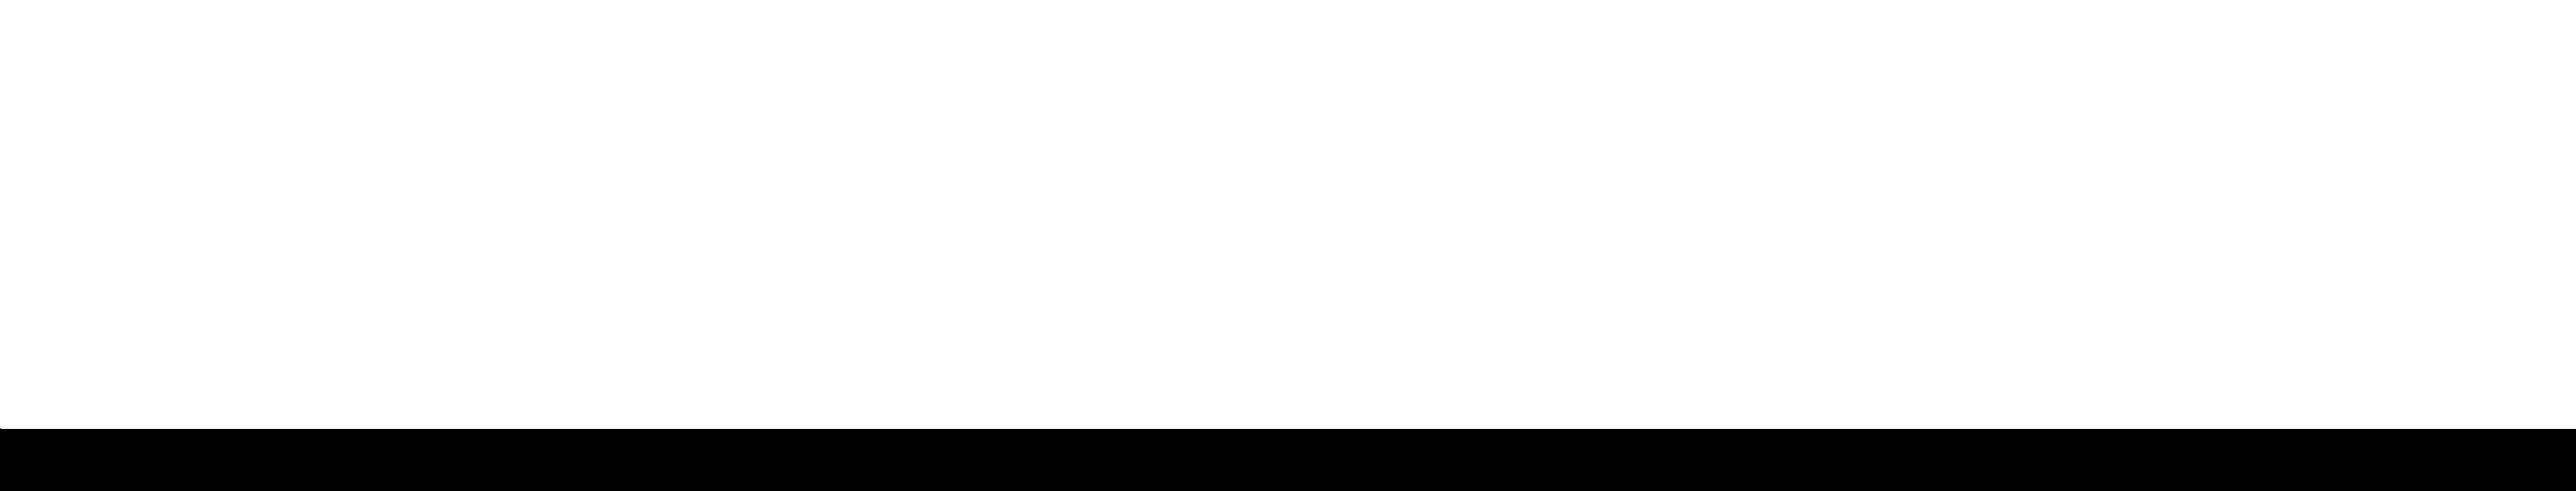
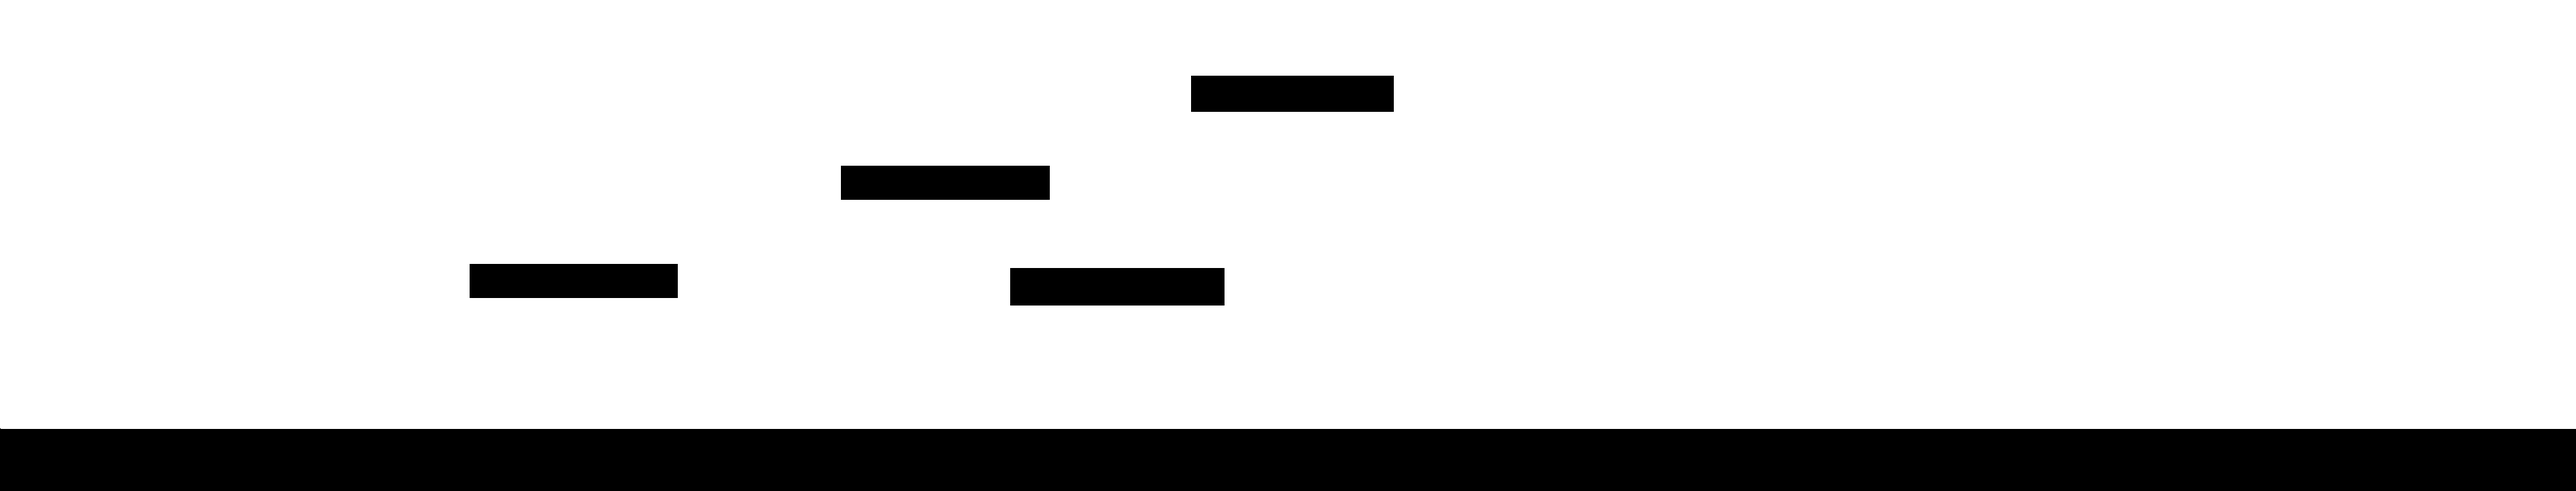
Merge origin/ContainerBranch into ContainerBranch
Conflicts:
	Base/src/main/java/group04/base/BaseSystem.java
	Core/src/main/java/group04/core/Renderer.java

diff --git a/Core/src/main/java/group04/core/Renderer.java b/Core/src/main/java/group04/core/Renderer.java
@@ -20,6 +20,7 @@ import group04.common.GameData;
 import group04.common.World;
 import group04.core.managers.Assets;
 import group04.enemycommon.EnemyEntity;
+import group04.platformcommon.PlatformEntity;
 import group04.playercommon.PlayerEntity;
 import group04.projectilecommon.ProjectileEntity;
 import group04.spawnercommon.WaveSpawnerEntity;
@@ -28,6 +29,7 @@ import group04.weaponcommon.WeaponEntity;
 import java.util.ArrayList;
 import org.openide.util.Exceptions;
 import java.util.Map.Entry;
+import javafx.application.Platform;
 
 /**
  *
@@ -59,7 +61,7 @@ public class Renderer {
         while (!assetManager.getAssetManager().update()) {
 //            System.out.println(assetManager.getAssetManager().getProgress() * 100);
         }
-        
+
 //        loadPNGAnimation("player_run_animation2.png", 75, 80, 5);
         //Animation speed += 1/animationspeed
         loadPNGAnimation("player_idle_animation.png", 105, 132, 5);
@@ -77,12 +79,12 @@ public class Renderer {
             sprite = (Sprite) e.getValue();
             gameData.getSpriteInfo().put(fileName.substring(0, fileName.length() - 4), new int[]{(int) sprite.getWidth(), (int) sprite.getHeight()});
         }
-        
+
         Animation animation;
         for (Entry e : assetManager.getAllAnimations().entrySet()) {
             fileName = (String) e.getKey();
             animation = (Animation) e.getValue();
-            gameData.getSpriteInfo().put(fileName.substring(0, fileName.length() - 4), new int[]{(int)animation.getWidth(), (int)animation.getHeight()});
+            gameData.getSpriteInfo().put(fileName.substring(0, fileName.length() - 4), new int[]{(int) animation.getWidth(), (int) animation.getHeight()});
         }
 
 //        assetManager.getAssetManager().get
@@ -90,7 +92,7 @@ public class Renderer {
     }
 
     public void loadPNGAnimation(String animationName, int spriteSizeX, int spriteSizeY, float animationSpeed) {
-        assetManager.makeAnimation(animationName, assetManager.getAssetManager().get(assetManager.getFilePaths().get(animationName), 
+        assetManager.makeAnimation(animationName, assetManager.getAssetManager().get(assetManager.getFilePaths().get(animationName),
                 Texture.class), spriteSizeX, spriteSizeY, animationSpeed);
     }
 
@@ -193,12 +195,18 @@ public class Renderer {
                 drawSprite(gameData, world, entity, images.get(imageContainer.getSprite()), imageContainer);
             }
         }*/
-/*        for (Entity entity : world.getEntities(PlayerEntity.class)) {
+ /*        for (Entity entity : world.getEntities(PlayerEntity.class)) {
             if (entity.getDrawable() != null) {
                 drawSprite(gameData, world, entity, assetManager.getSprites(entity.getDrawable() + ".png"));
             }
         }*/
-
+ 
+        for (Entity entity : world.getEntities(PlatformEntity.class)) {
+            if (entity.getDrawable() != null) {
+                drawSprite(gameData, world, entity, assetManager.getSprites(entity.getDrawable() + ".png"));
+            }
+        }
+        
         for (Entity entity : world.getEntities(EnemyEntity.class)) {
             if (entity.getDrawable() != null) {
                 drawSprite(gameData, world, entity, assetManager.getSprites(entity.getDrawable() + ".png"));

diff --git a/Base/src/main/java/group04/base/BaseSystem.java b/Base/src/main/java/group04/base/BaseSystem.java
@@ -12,6 +12,7 @@ import group04.common.events.Event;
 import group04.common.events.EventType;
 import group04.common.services.IServiceInitializer;
 import group04.common.services.IServiceProcessor;
+import group04.platformcommon.PlatformEntity;
 import group04.playercommon.PlayerEntity;
 import group04.upgradecommon.UpgradeEntity;
 import group04.weaponcommon.WeaponEntity;
@@ -43,15 +44,18 @@ public class BaseSystem implements IServiceProcessor, IServiceInitializer {
                 }
             }
 
-            if (gameData.getKeys().isPressed(GameKeys.U)) {
-                //Open upgrade screen
-                for (Entity menu : world.getEntities(UpgradeEntity.class)) {
-                    UpgradeEntity e = (UpgradeEntity) menu;
-                    e.setOpen(!e.isOpen());
-                }
+            UpgradeEntity menu = null;
+
+            for (Entity e : world.getEntities(UpgradeEntity.class)) {
+                menu = (UpgradeEntity) e;
             }
 
-            if (gameData.getKeys().isPressed(GameKeys.I)) {
+            if (gameData.getKeys().isPressed(GameKeys.U)) {
+                //Open upgrade screen
+                menu.setOpen(!menu.isOpen());
+            }
+
+            if (gameData.getKeys().isPressed(GameKeys.I) && menu.isOpen()) {
                 //HP Upgrade
                 if (player.getMoney() > 100) {
                     base.setHpLevel(base.getHpLevel() + 1);
@@ -60,7 +64,7 @@ public class BaseSystem implements IServiceProcessor, IServiceInitializer {
                 }
             }
 
-            if (gameData.getKeys().isPressed(GameKeys.J)) {
+            if (gameData.getKeys().isPressed(GameKeys.J) && menu.isOpen()) {
                 if (player.getMoney() > 200) {
                     WeaponEntity turret = (WeaponEntity) base.getTurretOwned();
                     //Turret Upgrade
@@ -85,12 +89,14 @@ public class BaseSystem implements IServiceProcessor, IServiceInitializer {
                     player.setMoney(player.getMoney() - 200);
                 }
             }
-            if (gameData.getKeys().isPressed(GameKeys.K)) {
+            if (gameData.getKeys().isPressed(GameKeys.K) && menu.isOpen()) {
                 //Platform Upgrade
                 if (player.getMoney() > 50 && base.getPlatformLevel() < 5) {
                     base.setPlatformLevel(base.getPlatformLevel() + 1);
                     player.setMoney(player.getMoney() - 50);
                     //Create platforms
+                    PlatformEntity platform = new PlatformEntity();
+                    platform.setDrawable("base_platform");
                 }
             }
 

diff --git a/Map/src/main/java/group04/map/Initializer.java b/Map/src/main/java/group04/map/Initializer.java
@@ -6,6 +6,7 @@ import group04.common.EntityType;
 import group04.common.GameData;
 import group04.common.World;
 import group04.common.services.IServiceInitializer;
+import group04.mapcommon.IMapService;
 import group04.mapcommon.MapEntity;
 import java.io.File;
 import java.io.FileInputStream;
@@ -14,10 +15,14 @@ import java.io.IOException;
 import java.io.ObjectInputStream;
 import java.util.logging.Level;
 import java.util.logging.Logger;
+import org.openide.util.lookup.ServiceProviders;
 
-@ServiceProvider(service = IServiceInitializer.class)
+@ServiceProviders(value = {
+    @ServiceProvider(service = IServiceInitializer.class),
+    @ServiceProvider(service = IMapService.class)
+})
 
-public class Initializer implements IServiceInitializer {
+public class Initializer implements IServiceInitializer, IMapService {
 
     
 
@@ -27,7 +32,7 @@ public class Initializer implements IServiceInitializer {
     @Override
     public void start(GameData gameData, World world) {
 //        map = generateMap(gameData);
-        Entity map = loadMap(gameData);
+        Entity map = loadMap(gameData, "../../../Common/src/main/resources/map.object");
         world.addEntity(map);
     }
 
@@ -36,13 +41,13 @@ public class Initializer implements IServiceInitializer {
 
     }
 
-    private Entity loadMap(GameData gameData) {
+    private Entity loadMap(GameData gameData, String map) {
 
         
         FileInputStream fin = null;
         ObjectInputStream ois = null;
         try {
-            fin = new FileInputStream(new File("../../../Common/src/main/resources/map.object").getAbsolutePath());
+            fin = new FileInputStream(new File(map).getAbsolutePath());
             ois = new ObjectInputStream(fin);
         } catch (FileNotFoundException ex) {
             Logger.getLogger(Initializer.class.getName()).log(Level.SEVERE, null, ex);
@@ -75,5 +80,10 @@ public class Initializer implements IServiceInitializer {
         }
 
         return null;
+    }
+
+    @Override
+    public void process(GameData gameData, String map) {
+        loadMap(gameData, map);
     }
 }

diff --git a/Core/src/main/java/group04/core/Game.java b/Core/src/main/java/group04/core/Game.java
@@ -27,6 +27,7 @@ import group04.common.services.IServiceProcessor;
 import group04.currencycommon.ICurrencyService;
 import group04.enemycommon.EnemyEntity;
 import group04.enemycommon.IEnemyService;
+import group04.mapcommon.IMapService;
 import group04.movementcommon.IMovementService;
 import group04.playercommon.PlayerEntity;
 import group04.spawnercommon.ISpawnerService;
@@ -125,6 +126,7 @@ public class Game implements ApplicationListener {
             ips.pickUpWeapon(gameData, world);
         }
 
+        platformProcess();
         playerProcess();
         enemyProcess();
     }
@@ -227,6 +229,33 @@ public class Game implements ApplicationListener {
                 }
             }
 
+        }
+    }
+
+    private void platformProcess() {
+        for (Event e : gameData.getAllEvents()) {
+            if (e.getType() == EventType.PLATFORM_SPAWN) {
+                for (IMapService i : Lookup.getDefault().lookupAll(IMapService.class)) {
+                    for (Entity ent : world.getEntities(BaseEntity.class)) {
+                        BaseEntity base = (BaseEntity) ent;
+                        if (base.getPlatformLevel() == 1) {
+                            i.process(gameData, "../../../Common/src/main/resources/mapplat1.object");
+                        }
+                        if (base.getPlatformLevel() == 2) {
+                            i.process(gameData, "../../../Common/src/main/resources/mapplat2.object");
+
+                        }
+                        if (base.getPlatformLevel() == 3) {
+                            i.process(gameData, "../../../Common/src/main/resources/mapplat3.object");
+
+                        }
+                        if (base.getPlatformLevel() == 4) {
+                            i.process(gameData, "../../../Common/src/main/resources/mapplat4.object");
+
+                        }
+                    }
+                }
+            }
         }
     }
 }

diff --git a/Platform/src/main/java/group04/platform/PlatformSystem.java b/Platform/src/main/java/group04/platform/PlatformSystem.java
@@ -1,0 +1,32 @@
+/*
+ * To change this license header, choose License Headers in Project Properties.
+ * To change this template file, choose Tools | Templates
+ * and open the template in the editor.
+ */
+package group04.platform;
+
+import group04.common.GameData;
+import group04.common.World;
+import group04.common.services.IServiceInitializer;
+import org.openide.util.lookup.ServiceProvider;
+import org.openide.util.lookup.ServiceProviders;
+
+/**
+ *
+ * @author Michael-PC
+ */
+@ServiceProviders(value = {
+    @ServiceProvider(service = IServiceInitializer.class)
+})
+
+public class PlatformSystem implements IServiceInitializer {
+
+    @Override
+    public void start(GameData gameData, World world) {
+    }
+
+    @Override
+    public void stop(GameData gameData, World world) {
+    }
+
+}

diff --git a/Common/src/main/java/group04/mapgenerator/MapGenerator.java b/Common/src/main/java/group04/mapgenerator/MapGenerator.java
@@ -45,7 +45,7 @@ public class MapGenerator {
                 }
             }
 
-            FileOutputStream fout = new FileOutputStream("src\\main\\resources\\map.object");
+            FileOutputStream fout = new FileOutputStream("src\\main\\resources\\mapplat4.object");
 //            FileOutputStream fout = new FileOutputStream(this.getClass().getregetResource() "main\\resources\\map.object");
             ObjectOutputStream oos = new ObjectOutputStream(fout);
             oos.writeObject(newMapInt);

diff --git a/MapCommon/src/main/java/group04/mapcommon/IMapService.java b/MapCommon/src/main/java/group04/mapcommon/IMapService.java
@@ -1,0 +1,16 @@
+/*
+ * To change this license header, choose License Headers in Project Properties.
+ * To change this template file, choose Tools | Templates
+ * and open the template in the editor.
+ */
+package group04.mapcommon;
+
+import group04.common.GameData;
+
+/**
+ *
+ * @author Michael-PC
+ */
+public interface IMapService {
+    public void process(GameData gameData, String map);
+}

diff --git a/PlatformCommon/src/main/java/group04/platformcommon/PlatformEntity.java b/PlatformCommon/src/main/java/group04/platformcommon/PlatformEntity.java
@@ -1,0 +1,16 @@
+/*
+ * To change this license header, choose License Headers in Project Properties.
+ * To change this template file, choose Tools | Templates
+ * and open the template in the editor.
+ */
+package group04.platformcommon;
+
+import group04.common.Entity;
+
+/**
+ *
+ * @author Michael-PC
+ */
+public class PlatformEntity extends Entity {
+    
+}

diff --git a/Common/src/main/java/group04/common/events/EventType.java b/Common/src/main/java/group04/common/events/EventType.java
@@ -11,5 +11,5 @@ package group04.common.events;
  */
 public enum EventType {
     PLAYER_SHOOT_GUN, PLAYER_SHOOT_ROCKET, ENTITY_HIT, ENEMY_SHOOT, PICKUP_WEAPON, DROP_CURRENCY, PICKUP_CURRENCY, PLAYER_SWING,
-    DROP_BOOST, PICKUP_BOOST, ROCKET_HIT;
+    DROP_BOOST, PICKUP_BOOST, ROCKET_HIT, PLATFORM_SPAWN;
 }
